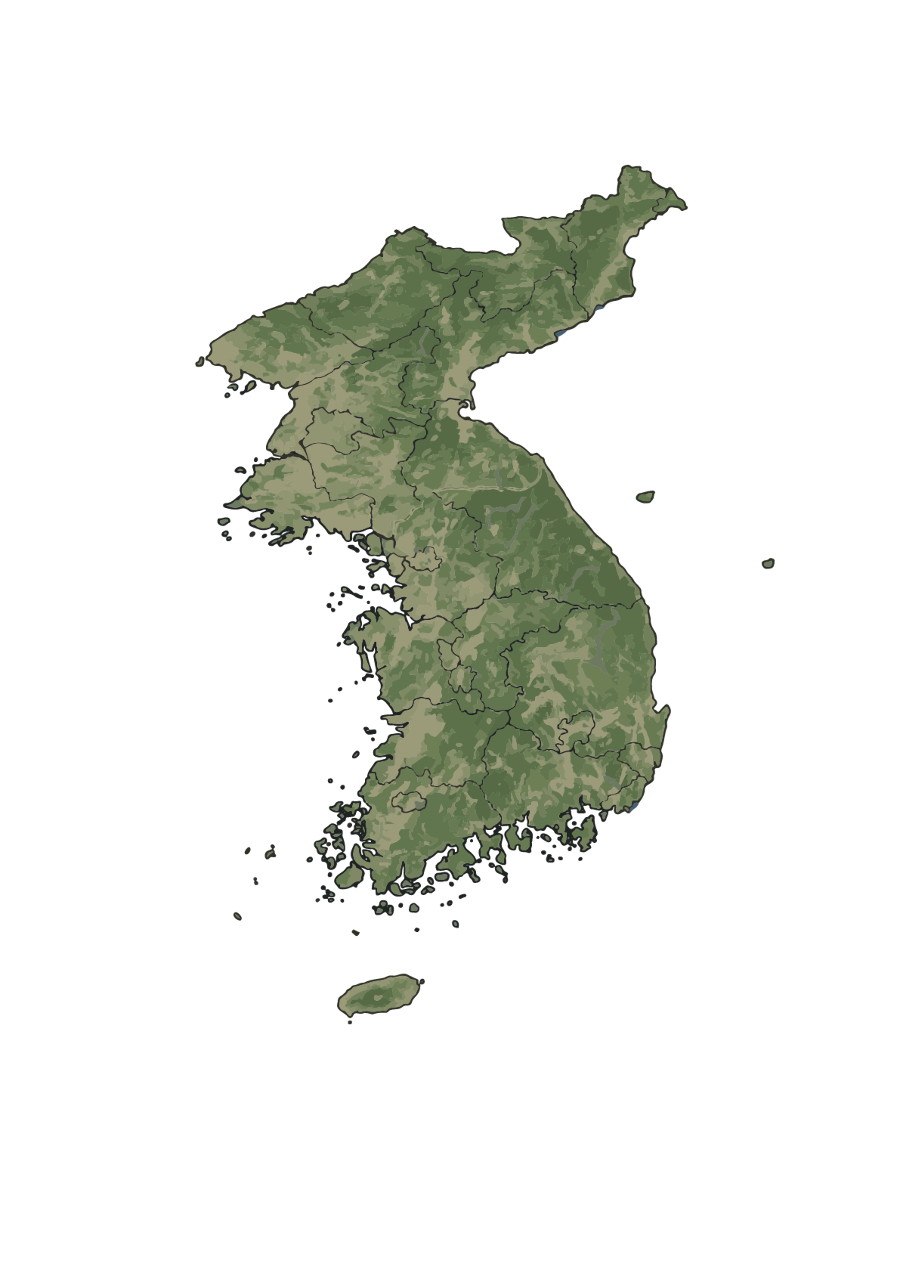
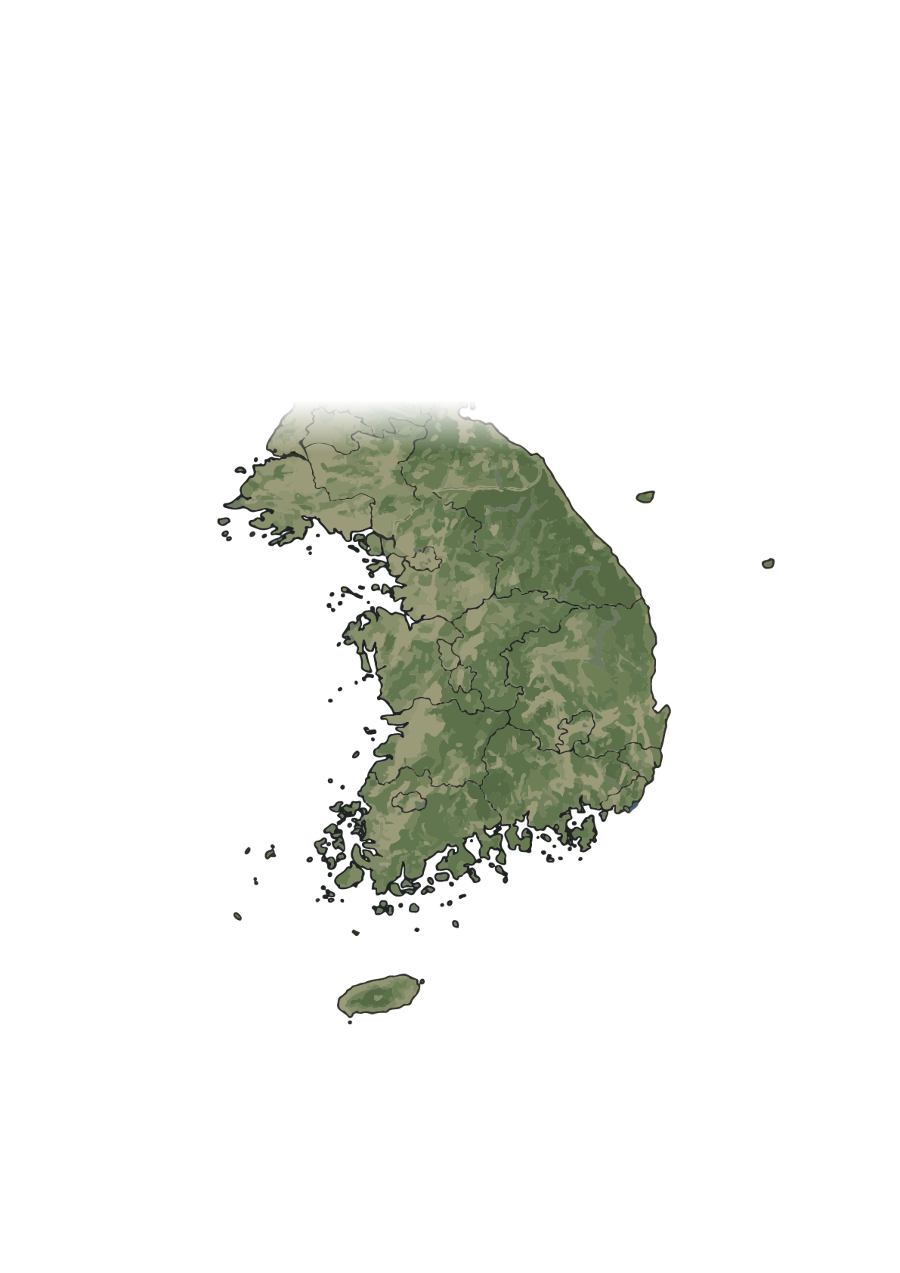
cricket preview: seed-based province click (voronoi) + lat/lon->image fit + NK fade

Changed region(s): [[0.2178, 0.1225, 0.7778, 0.3676]]

diff --git a/public/cricket_preview/index.html b/public/cricket_preview/index.html
@@ -741,7 +741,7 @@ renderSool();
 const SVGNS="http://www.w3.org/2000/svg";
 // 도시(region) → 시도 코드
 const PROV_OF={seoul:'11',incheon:'23',yangpyeong:'31',hwaseong:'31',yongin:'31',yeoju:'31',gimpo:'31',guri:'31',namyangju:'31',hoengseong:'32',chuncheon:'32',cheongju:'33',chungju:'33',yeongdong:'33',gongju:'34',yesan:'34',daejeon:'25',daegu:'22',andong:'37',sangju:'37',mungyeong:'37',gimhae:'38',hamyang:'38',changwon:'38',sacheon:'38',ulsan:'26',jeonju:'35',sunchang:'35',gochang:'35',damyang:'36',naju:'36',jeju:'39',goyang:'31'};
-function cityXY(la,lo){const p=MAPDATA.proj;return [(lo*p.cosLat-p.minX)*p.S+p.pad,(-la-p.minY)*p.S+p.pad];}
+function cityXY(la,lo){const p=MAPDATA.proj;const ox=(lo*p.cosLat-p.minX)*p.S+p.pad, oy=(-la-p.minY)*p.S+p.pad;const f=window.CFIT;return f?[f.sx*ox+f.tx, f.sy*oy+f.ty]:[ox,oy];}
 let activeProv=null, zoomed=false, vbAnim=null;
 let VB={x:0,y:0,w:0,h:0};
 const BACKTXT={ko:"← 전체 지도",en:"← Whole map",zh:"← 全国地图",ja:"← 全体マップ"};
@@ -760,7 +760,7 @@ function animVB(tx,ty,tw,th,dur,done){
 }
 // 줌 배율에 맞춰 글자·점·선 크기를 화면상 일정하게 유지
 function scaleOverlay(){
- const s=VB.w/MAPDATA.vbW;
+ const s=VB.w/CMAP_SK.w;
  document.querySelectorAll("#mapMuni .muni").forEach(p=>{p.setAttribute("stroke-dasharray",(3.2*s).toFixed(2)+" "+(2.4*s).toFixed(2));});
  document.querySelectorAll("#mapDyn .mdot").forEach(d=>d.setAttribute("r",(4.6*s).toFixed(2)));
  document.querySelectorAll("#mapDyn .mhit").forEach(d=>d.setAttribute("r",(30*s).toFixed(2)));
@@ -795,58 +795,60 @@ function _smoothD(d,iter){
   if(window.KOREA&&!KOREA._sm){ KOREA.peninsula=_smoothD(KOREA.peninsula,2); KOREA._sm=1; }
  }catch(e){ console.warn('smooth',e); } })();
 const CMAP={x:0,y:0,w:900,h:1273};        // 크리켓지도 이미지 원본 픽셀 좌표계
-const CMAP_SK={x:220,y:360,w:460,h:720};  // 남한 뷰(이미지 픽셀) — 렌더로 조정
+const CMAP_SK=window.CMAP_SK||{x:250,y:432,w:430,h:600};  // 남한 뷰(이미지 픽셀)
+// 위경도->이미지픽셀 (CFIT). 손그림 특이지점은 CITY_OVERRIDE로 보정.
+function cityImg(k){const o=(window.CITY_OVERRIDE||{})[k]; if(o)return o.slice(); return cityXY(REG[k].la,REG[k].lo);}
+// 클릭 지점(이미지좌표)에서 가장 가까운 도 seed
+function nearestProv(x,y){let best=null,bd=1e18;const S=window.PROV_SEED||{};for(const c in S){const dx=S[c][0]-x,dy=S[c][1]-y,d=dx*dx+dy*dy;if(d<bd){bd=d;best=c;}}return best;}
+function svgPt(evt){const svg=document.getElementById("mapsvg");const pt=svg.createSVGPoint();pt.x=evt.clientX;pt.y=evt.clientY;const m=svg.getScreenCTM();if(!m)return[0,0];const p=pt.matrixTransform(m.inverse());return[p.x,p.y];}
 function buildMap(){
  const svg=document.getElementById("mapsvg");
  svg.setAttribute("preserveAspectRatio","xMidYMid meet");
  setVB(CMAP_SK.x,CMAP_SK.y,CMAP_SK.w,CMAP_SK.h);
  const provCount={};BOTTLES.forEach(b=>{if(b.region&&PROV_OF[b.region])provCount[PROV_OF[b.region]]=(provCount[PROV_OF[b.region]]||0)+1;});
  svg.innerHTML="";
- // 크리켓지도 이미지(배경). provinces는 그 위 투명 클릭 레이어.
+ // 크리켓지도 이미지(배경). 도 선택은 이미지 위 클릭 지점 최근접 seed로 판정(보로노이).
  const mimg=el("image",{x:CMAP.x,y:CMAP.y,width:CMAP.w,height:CMAP.h,preserveAspectRatio:"none",id:"cmapImg"});
  mimg.setAttribute("href","cricket_map.png");
  mimg.setAttributeNS("http://www.w3.org/1999/xlink","href","cricket_map.png");
  svg.appendChild(mimg);
- // 이미지 위 도·광역시 클릭 영역 (PROV_POLY, 이미지 픽셀 다각형). 작은 광역시는 나중에 그린다.
- const METRO=["11","21","22","23","24","25","26","29"];
- const codes=Object.keys(window.PROV_POLY||{}).sort((a,b)=>(METRO.indexOf(a)>=0?1:0)-(METRO.indexOf(b)>=0?1:0));
- codes.forEach(code=>{
-   const pts=PROV_POLY[code].map(p=>p.join(",")).join(" ");
-   const poly=el("polygon",{class:"prov"+(provCount[code]?" has":"")+(METRO.indexOf(code)>=0?" metro":""),id:"prov-"+code,points:pts});
-   poly.addEventListener("click",e=>{e.stopPropagation();activateProv(code);});
-   svg.appendChild(poly);
- });
- svg.appendChild(el("g",{id:"mapMuni"}));  // 시군구 점선
+ svg.appendChild(el("g",{id:"mapMuni"}));  // (미사용)
  svg.appendChild(el("g",{id:"mapDyn"}));   // 라벨+양조지 점
+ if(!svg._clickBound){
+   svg.addEventListener("click",e=>{
+     const[x,y]=svgPt(e);
+     if(zoomed){ zoomOutMap(); return; }
+     const code=nearestProv(x,y); if(code) activateProv(code);
+   });
+   svg._clickBound=1;
+ }
 }
 function activateProv(code){
  activeProv=code;zoomed=true;
  const svg=document.getElementById("mapsvg");
- [...svg.querySelectorAll(".prov")].forEach(pp=>{pp.classList.toggle("active",pp.id==="prov-"+code);pp.classList.toggle("dim",pp.id!=="prov-"+code);});
- const activeEl=document.getElementById("prov-"+code);
  const muni=document.getElementById("mapMuni"),dyn=document.getElementById("mapDyn");
- svg.insertBefore(activeEl,muni);
- // 시군구 경계(점선)
  muni.innerHTML="";
- ((window.MAPMUNI||{})[code]||[]).forEach(m=>muni.appendChild(el("path",{class:"muni",d:(m._sd||(m._sd=_smoothD(m.d,1)))})));
- // 실제 화면 확대: viewBox를 그 도의 영역으로
- const bb=activeEl.getBBox();
- const aspect=MAPDATA.vbW/MAPDATA.vbH;
- let w=bb.width,h=bb.height;
- if(w/h<aspect)w=h*aspect;else h=w/aspect;
- w*=1.3;h*=1.3;
- const minW=MAPDATA.vbW*0.16; if(w<minW){w=minW;h=w/aspect;} // 너무 작은 광역시 과확대 방지
- const cx=bb.x+bb.width/2,cy=bb.y+bb.height/2;
+ // 이 도에 속한 도시(광역시 접힘 포함) 중 술 있는 곳
+ const CT=window.METRO_CONTAIN||{};
+ const cities=Object.keys(PROV_OF).filter(k=>{const pc=PROV_OF[k];return (pc===code||CT[pc]===code) && BOTTLES.some(b=>b.region===k);});
+ // 줌 박스: 도시들 + seed 를 감싸는 영역
+ const seed=(window.PROV_SEED||{})[code]||[CMAP_SK.x+CMAP_SK.w/2,CMAP_SK.y+CMAP_SK.h/2];
+ const pos=cities.map(k=>cityImg(k)); const all=pos.concat([seed]);
+ let minx=1e18,miny=1e18,maxx=-1e18,maxy=-1e18;
+ all.forEach(p=>{if(p[0]<minx)minx=p[0];if(p[0]>maxx)maxx=p[0];if(p[1]<miny)miny=p[1];if(p[1]>maxy)maxy=p[1];});
+ const aspect=CMAP_SK.w/CMAP_SK.h;
+ let w=Math.max((maxx-minx)*1.9, 210), h=w/aspect;
+ if((maxy-miny)*1.9>h){h=(maxy-miny)*1.9; w=h*aspect;}
+ const cx=(minx+maxx)/2, cy=(miny+maxy)/2;
  animVB(cx-w/2,cy-h/2,w,h,760);
  // 라벨 + 양조지 점
  const prov=MAPDATA.provinces.find(p=>p.code===code);
  dyn.innerHTML="";
- const label=el("text",{class:"prov-label",x:cx,y:bb.y-bb.height*0.04,"text-anchor":"middle"});
+ const label=el("text",{class:"prov-label",x:cx,y:miny-h*0.06,"text-anchor":"middle"});
  label.textContent=provName(prov.code,prov.kr);dyn.appendChild(label);
- const cities=Object.keys(PROV_OF).filter(k=>PROV_OF[k]===code);
  cities.forEach((k,i)=>{
    const cnt=BOTTLES.filter(b=>b.region===k).length; if(!cnt) return;
-   const[x,y]=cityXY(REG[k].la,REG[k].lo);
+   const[x,y]=cityImg(k);
    const pick=e=>{e.stopPropagation();selectCity(k);};
    // 실제로 눌리는 영역 (투명, 점보다 훨씬 크게)
    const hit=el("circle",{class:"mhit",cx:x,cy:y-3,r:30,fill:"rgba(0,0,0,0)"});
@@ -864,8 +866,6 @@ function activateProv(code){
 }
 function zoomOutMap(){
  zoomed=false;activeProv=null;
- const svg=document.getElementById("mapsvg");
- [...svg.querySelectorAll(".prov")].forEach(pp=>pp.classList.remove("active","dim"));
  document.getElementById("mapMuni").innerHTML="";
  document.getElementById("mapDyn").innerHTML="";
  document.getElementById("mapBack").classList.remove("show");
@@ -907,7 +907,7 @@ if(lb&&lbImg){
 buildMap();
 document.getElementById("mapBack").addEventListener("click",e=>{e.stopPropagation();zoomOutMap();});
 function selectRegion(k){ // 도감/칵테일에서 지도로 올 때: 해당 도 활성 + 도시 선택
- const code=PROV_OF[k]; if(code) activateProv(code);
+ let code=PROV_OF[k]; code=(window.METRO_CONTAIN||{})[code]||code; if(code) activateProv(code);
  selectCity(k);
  document.getElementById("mapPanel").scrollIntoView({behavior:"smooth",block:"nearest"});
 }

diff --git a/public/cricket_preview/map_cricket.js b/public/cricket_preview/map_cricket.js
@@ -1,20 +1,22 @@
-// 크리켓지도 이미지(cricket_map.png, 900x1273) 위 도·광역시 클릭 영역 — 검은 경계선 따라 정밀
-window.PROV_POLY={
- "31":[[300,415],[360,398],[410,395],[442,430],[445,485],[418,525],[360,530],[312,510],[298,455],[295,428]], // 경기
- "32":[[440,398],[510,405],[590,435],[638,485],[632,545],[558,568],[498,548],[458,498],[442,445]], // 강원
- "33":[[418,505],[480,500],[540,530],[545,580],[518,615],[458,620],[420,585],[415,545]], // 충북
- "34":[[278,508],[360,500],[415,530],[420,580],[408,620],[340,628],[292,608],[272,555]], // 충남
- "35":[[280,625],[360,618],[440,635],[458,665],[450,715],[380,720],[310,712],[282,668]], // 전북
- "36":[[300,722],[380,716],[450,720],[478,745],[472,800],[440,850],[380,875],[310,858],[285,800],[295,745]], // 전남
- "37":[[450,560],[510,555],[560,560],[625,610],[642,680],[600,712],[510,718],[460,700],[452,640],[448,590]], // 경북
- "38":[[478,715],[560,712],[600,745],[602,795],[560,835],[490,850],[478,800],[470,745]], // 경남
- "39":[[318,1006],[348,988],[380,984],[412,995],[424,1012],[410,1030],[366,1040],[328,1034],[314,1018]], // 제주
- "11":[[380,418],[425,412],[435,438],[412,455],[380,445]], // 서울
- "23":[[322,430],[362,422],[370,455],[342,468],[322,450]], // 인천
- "25":[[398,562],[436,556],[444,588],[414,600],[394,578]], // 대전
- "29":[[388,540],[418,536],[422,560],[398,564]], // 세종
- "22":[[494,662],[540,656],[550,692],[518,706],[492,684]], // 대구
- "24":[[324,756],[362,750],[372,786],[344,800],[322,776]], // 광주
- "21":[[562,802],[596,798],[604,832],[574,848],[560,824]], // 부산
- "26":[[588,742],[618,738],[624,772],[594,786],[582,764]]  // 울산
+// 크리켓지도 이미지(cricket_map.png, 900x1273) 좌표계.
+// 위경도 -> 이미지픽셀 변환(축별 선형, 기준점 6곳으로 피팅). cityXY가 이걸 쓴다.
+window.CFIT={sx:1.2305783154378926, tx:41.265052804, sy:0.8848287555952355, ty:353.3228468909};
+// 9개 도 중심점(이미지픽셀). 클릭 지점에서 가장 가까운 seed의 도가 선택된다(보로노이).
+// 값은 도 지리중심을 CFIT로 변환한 것. 제주·전남·강원은 손그림에 맞춰 미세조정.
+window.PROV_SEED={
+ "31":[404,488], // 경기
+ "32":[553,512], // 강원 (아래로 살짝)
+ "33":[509,603], // 충북
+ "34":[362,617], // 충남
+ "35":[402,713], // 전북
+ "36":[360,818], // 전남 (동쪽으로: 본토 중심)
+ "37":[607,637], // 경북
+ "38":[568,764], // 경남
+ "39":[392,990]  // 제주 (그려진 섬 위로)
 };
+// 광역시는 주변 도로 접어 넣는다(작아서 개별 클릭 불가). 클릭·도시목록·selectRegion에 사용.
+window.METRO_CONTAIN={"11":"31","23":"31","25":"34","29":"34","22":"37","24":"36","21":"38","26":"38"};
+// 손그림에서 위치가 크게 어긋난 지점 수동 보정(섬 등).
+window.CITY_OVERRIDE={jeju:[392,986]};
+// 남한 뷰(이미지픽셀) — 북한 페이드 후 남한+제주 프레이밍
+window.CMAP_SK={x:250,y:432,w:430,h:600};
